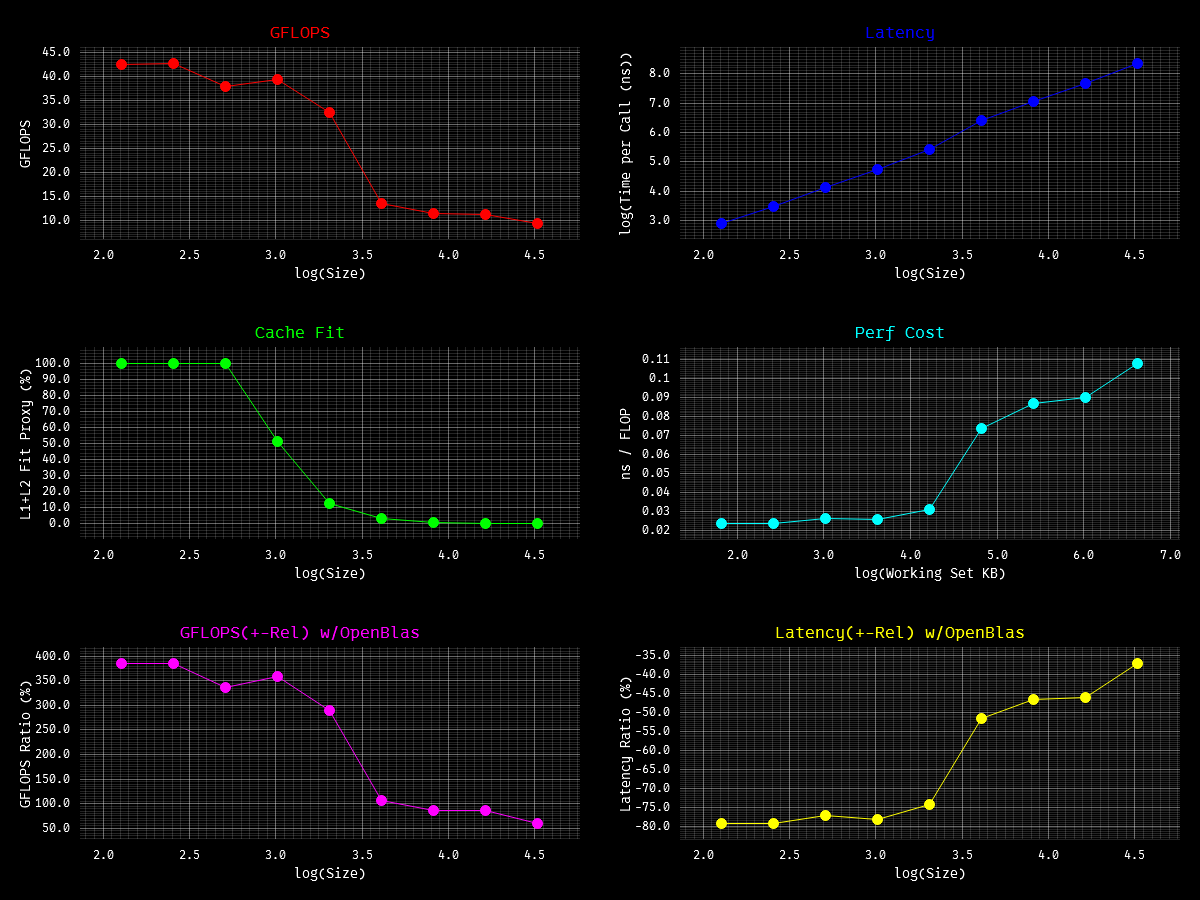
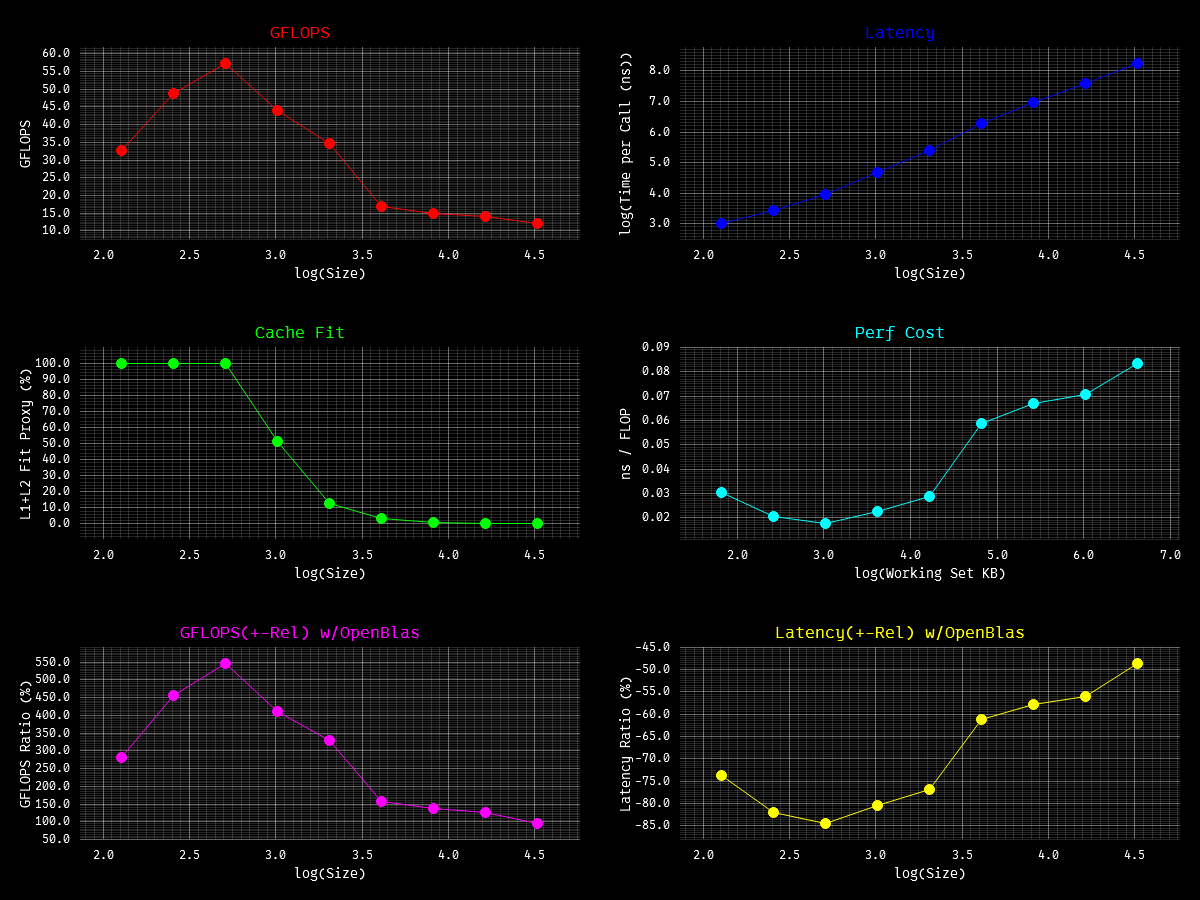
feat: add hot path for `is_trans` for `gemv` and new gemv bench ~60gflops cache case

diff --git a/src/lvl2.rs b/src/lvl2.rs
@@ -267,7 +267,122 @@ pub fn gemv(
         // simd path, load columns of A and x, do dot product, store to y;
         // prefetch/pray future columns of A for rizzing cpu-chan
         unsafe {
-            if incx == 1 {
+            if incx == 1 && incy == 1 {
+                let mut j = 0usize;
+
+                // process 2 columns to maximize X vector reuse
+                while j + 1 < n {
+                    let col0 = a_ptr.add(j * lda);
+                    let col1 = a_ptr.add((j + 1) * lda);
+
+                    if j + 2 < n {
+                        _mm_prefetch(a_ptr.add((j + 2) * lda) as *const i8, _MM_HINT_NTA);
+                    }
+
+                    // set 4 acc from each column
+                    let mut sum0_0 = _mm256_setzero_ps();
+                    let mut sum0_1 = _mm256_setzero_ps();
+                    let mut sum0_2 = _mm256_setzero_ps();
+                    let mut sum0_3 = _mm256_setzero_ps();
+
+                    let mut sum1_0 = _mm256_setzero_ps();
+                    let mut sum1_1 = _mm256_setzero_ps();
+                    let mut sum1_2 = _mm256_setzero_ps();
+                    let mut sum1_3 = _mm256_setzero_ps();
+
+                    let mut i = 0usize;
+
+                    while i + 32 <= m {
+                        // load x once (32 floats)
+                        let x0 = _mm256_loadu_ps(x_ptr.add(i));
+                        let x1 = _mm256_loadu_ps(x_ptr.add(i + 8));
+                        let x2 = _mm256_loadu_ps(x_ptr.add(i + 16));
+                        let x3 = _mm256_loadu_ps(x_ptr.add(i + 24));
+
+                        // compute fma for col 0
+                        sum0_0 = _mm256_fmadd_ps(_mm256_loadu_ps(col0.add(i)), x0, sum0_0);
+                        sum0_1 = _mm256_fmadd_ps(_mm256_loadu_ps(col0.add(i + 8)), x1, sum0_1);
+                        sum0_2 = _mm256_fmadd_ps(_mm256_loadu_ps(col0.add(i + 16)), x2, sum0_2);
+                        sum0_3 = _mm256_fmadd_ps(_mm256_loadu_ps(col0.add(i + 24)), x3, sum0_3);
+
+                        // compute fma for col 1
+                        sum1_0 = _mm256_fmadd_ps(_mm256_loadu_ps(col1.add(i)), x0, sum1_0);
+                        sum1_1 = _mm256_fmadd_ps(_mm256_loadu_ps(col1.add(i + 8)), x1, sum1_1);
+                        sum1_2 = _mm256_fmadd_ps(_mm256_loadu_ps(col1.add(i + 16)), x2, sum1_2);
+                        sum1_3 = _mm256_fmadd_ps(_mm256_loadu_ps(col1.add(i + 24)), x3, sum1_3);
+
+                        i += 32;
+                    }
+
+                    while i + 8 <= m {
+                        let x0 = _mm256_loadu_ps(x_ptr.add(i));
+                        sum0_0 = _mm256_fmadd_ps(_mm256_loadu_ps(col0.add(i)), x0, sum0_0);
+                        sum1_0 = _mm256_fmadd_ps(_mm256_loadu_ps(col1.add(i)), x0, sum1_0);
+                        i += 8;
+                    }
+
+                    // combine acc for col 2
+                    let sum0_01 = _mm256_add_ps(sum0_0, sum0_1);
+                    let sum0_23 = _mm256_add_ps(sum0_2, sum0_3);
+                    let mut dot0 = from_m256(_mm256_add_ps(sum0_01, sum0_23));
+
+                    // combine acc for col 1
+                    let sum1_01 = _mm256_add_ps(sum1_0, sum1_1);
+                    let sum1_23 = _mm256_add_ps(sum1_2, sum1_3);
+                    let mut dot1 = from_m256(_mm256_add_ps(sum1_01, sum1_23));
+
+                    // scalar fallback
+                    while i < m {
+                        let x_val = *x_ptr.add(i);
+                        dot0 += *col0.add(i) * x_val;
+                        dot1 += *col1.add(i) * x_val;
+                        i += 1;
+                    }
+
+                    // write back with alpha scaling (contiguous)
+                    *y_ptr.add(j) = alpha.mul_add(dot0, *y_ptr.add(j));
+                    *y_ptr.add(j + 1) = alpha.mul_add(dot1, *y_ptr.add(j + 1));
+
+                    j += 2;
+                }
+
+                // if n is odd, process last column; no reuse but still simd dot product
+                if j < n {
+                    let col = a_ptr.add(j * lda);
+                    let mut sum0 = _mm256_setzero_ps();
+                    let mut sum1 = _mm256_setzero_ps();
+                    let mut i = 0usize;
+
+                    while i + 16 <= m {
+                        sum0 = _mm256_fmadd_ps(
+                            _mm256_loadu_ps(col.add(i)),
+                            _mm256_loadu_ps(x_ptr.add(i)),
+                            sum0,
+                        );
+                        sum1 = _mm256_fmadd_ps(
+                            _mm256_loadu_ps(col.add(i + 8)),
+                            _mm256_loadu_ps(x_ptr.add(i + 8)),
+                            sum1,
+                        );
+                        i += 16;
+                    }
+                    while i + 8 <= m {
+                        sum0 = _mm256_fmadd_ps(
+                            _mm256_loadu_ps(col.add(i)),
+                            _mm256_loadu_ps(x_ptr.add(i)),
+                            sum0,
+                        );
+                        i += 8;
+                    }
+
+                    let mut dot_val = from_m256(_mm256_add_ps(sum0, sum1));
+                    while i < m {
+                        dot_val += *col.add(i) * *x_ptr.add(i);
+                        i += 1;
+                    }
+                    *y_ptr.add(j) = alpha.mul_add(dot_val, *y_ptr.add(j));
+                }
+            } else if incx == 1 {
                 for j in 0..n {
                     let col = a_ptr.add(j * lda);
 

diff --git a/bench/bencher.rs b/bench/bencher.rs
@@ -142,32 +142,36 @@ fn main() {
         .unwrap_or_else(|| "all".to_string())
         .to_lowercase();
 
-    match kernel.as_str() {
-        "axpy" => {
-            println!("Running AXPY benchmark...");
-            bench_axpy(&size_sample, target_time, plot_path)
-        }
-        "dot" => {
-            println!("Running DOT benchmark...");
-            bench_dot(&size_sample, target_time, plot_path)
-        }
-        "gemv" => {
-            println!("Running GEMV benchmark...");
-            bench_gemv(&size_sample, target_time, plot_path)
-        }
-        "gemv_t" => {
-            println!("Running GEMV Transposed benchmark...");
-            bench_gemv_t(&size_sample, target_time, plot_path)
-        }
-        "all" => {
-            println!("Running all benchmarks...");
-            bench_axpy(&size_sample, target_time, plot_path);
-            bench_dot(&size_sample, target_time, plot_path);
-            bench_gemv(&size_sample, target_time, plot_path);
-            bench_gemv_t(&size_sample, target_time, plot_path);
-        }
-        _ => {
-            eprintln!("Please specify a kernel to bench: axpy, dot, gemv, gemv_t, or all");
+    let kernels: Vec<&str> = if kernel == "all" {
+        vec!["axpy", "dot", "gemv", "gemv_t"] // order
+    } else {
+        kernel.split(',').collect()
+    };
+
+    for k in kernels {
+        match k.trim() {
+            "axpy" => {
+                println!("Running AXPY benchmark...");
+                bench_axpy(&size_sample, target_time, plot_path)
+            }
+            "dot" => {
+                println!("Running DOT benchmark...");
+                bench_dot(&size_sample, target_time, plot_path)
+            }
+            "gemv" => {
+                println!("Running GEMV benchmark...");
+                bench_gemv(&size_sample, target_time, plot_path)
+            }
+            "gemv_t" => {
+                println!("Running GEMV Transposed benchmark...");
+                bench_gemv_t(&size_sample, target_time, plot_path)
+            }
+            _ => {
+                eprintln!(
+                    "Unknown kernel: '{}'. Specify: <kernel1>, <kernel2> or all",
+                    k
+                );
+            }
         }
     }
 }
@@ -215,7 +219,6 @@ fn bench_axpy(size_sample: &[usize], target_time: f64, plot_path: &Path) {
             working_kb,
         );
 
-        // TODO: this is fine for now, but openblas perf is suspiciously low, wtf?
         let gflops_rel = (gflops - gflops_ob) / gflops_ob * 100.0;
         let latency_rel = (latency - latency_ob) / latency_ob * 100.0;
 

diff --git a/src/lib.rs b/src/lib.rs
@@ -1,9 +1,9 @@
 //! # `blas_rs`
 //!
-//! Experimental BLAS kernels written in Rust for **`x86_64 arch`**.
+//! Experimental BLAS kernels written in Rust for **`x86_64 only`**.
 //!
 //! This crate currently focuses on ALL Level BLAS operations for `f32` only,
-//! with SIMD-heavy implementations (`AVX2 only, so AVX-512 won't benefit`) where applicable.
+//! with SIMD-heavy implementations (`AVX2 only, so having AVX-512 cpu won't benefit`) where applicable.
 //!
 //! ## Modules Structure
 //!
@@ -12,7 +12,7 @@
 //! - [`lvl3`]: implements for matrix-matrix routines.
 //! - [`utils`]: internal helpers used by kernels and tests.
 //!
-//! ## Implemented routines [WIP](https://github.com/ronakgh97/blas_rs)
+//! ## Implemented routines [WIP](https://github.com/ronakgh97/blas_rs) (WIP)
 //!
 //! - lvl1: `axpy`, `scal`, `copy`, `swap`, `dot`, `nrm2`, `asum`, `i_amax`, `rot`, `rotg`.
 //! - lvl2: `gemv`
@@ -28,8 +28,12 @@
 //! let x = vec![1.0, 2.0, 3.0, 4.0];
 //! let mut y = vec![10.0, 20.0, 30.0, 40.0];
 //!
-//! lvl1::axpy(n, alpha, &x, 1, &mut y, 1);
+//! unsafe { lvl1::axpy_unsafe(n, alpha, &x, 1, &mut y, 1) };
 //! assert_eq!(y, vec![12.0, 24.0, 36.0, 48.0]);
+//!
+//! let x = vec![1.0, 2.0, 3.0, 4.0, 5.0, 6.0, 7.0, 8.0];
+//! let y = vec![9.0, 10.0, 11.0, 12.0, 13.0, 14.0, 15.0, 16.0];
+//! assert_eq!(unsafe { lvl1::dot_unsafe(n, &x, 1, &y, 1) }, 70.0);
 //! ```
 //!
 //! ### Notes

diff --git a/src/utils.rs b/src/utils.rs
@@ -7,8 +7,9 @@ use std::arch::x86_64::{
 /// Fills an existing buffer with random values in range `[-1.0, 1.0]`
 #[inline(always)]
 pub fn gen_fill(buf: &mut [f32]) {
-    for x in buf.iter_mut() {
-        *x = fastrand::f32() * 2.0 - 1.0;
+    let mut rng = fastrand::Rng::new();
+    for x in buf {
+        *x = rng.f32_inclusive() * 2.0 - 1.0;
     }
 }
 

diff --git a/README.md b/README.md
@@ -20,18 +20,16 @@ refs I took:
 TODO:
 
 - lvl1: rotmg, rotm
-- lvl2: all
-- lvl3: all
+- lvl2: gemv - all
+- lvl3: gemm - all
 - handle NaN, over/underflow, return vs panic and many more edge cases :(
 - test code ref from [this](https://github.com/OpenMathLib/OpenBLAS/tree/develop) repo, currently ai-generated
 - multithreading, GPU maybe?
 - LESS BRANCHING, more SIMD, LESS FN CALLS, better DATA_READ
 - HOLY SHIT TOOOO SLOWWWWWWW KERNELS!!!!!
 
-run [bench](./bench/bencher.rs) using
+run **[bench](./bench/bencher.rs)** using
 `cargo run --bin bencher --release all` [ref](https://github.com/OpenMathLib/OpenBLAS/tree/develop/benchmark)
-
-> NOTE: need openBlas installed in system
 
 - windows: clone [this](https://github.com/microsoft/vcpkg.git), run `.\bootstrap-vcpkg.bat`, then
   `.\vcpkg install openblas:x64-windows` and `setx VCPKG_ROOT=C:\path\to\vcpkg`
